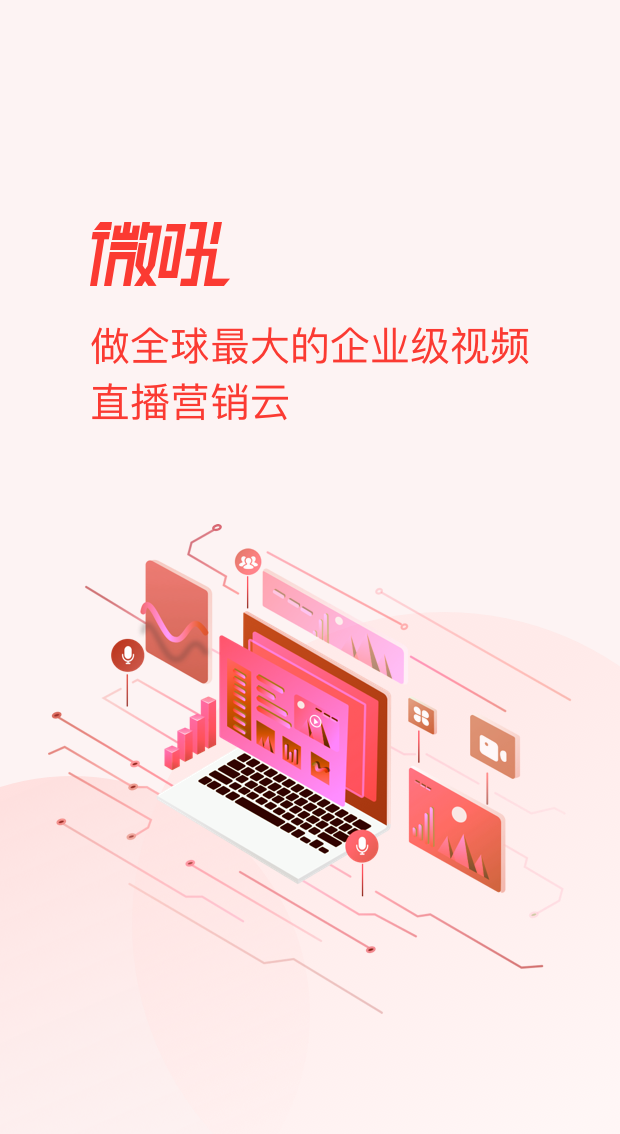
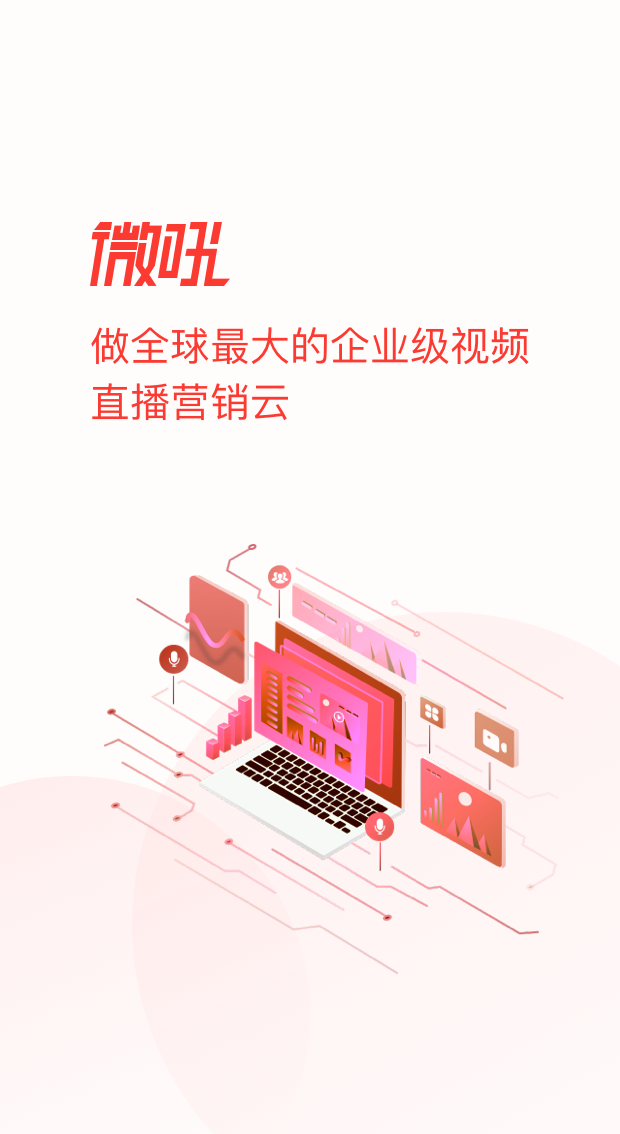
开屏海报

diff --git a/src/views/LiveModule/Brands/posterCard.vue b/src/views/LiveModule/Brands/posterCard.vue
@@ -556,10 +556,13 @@ export default {
         margin: 110px auto 0;
       } */
       img {
-        width: 400px;
+        /* width: 400px;
         height: 242px;
         display: block;
-        margin: 24px auto 0;
+        margin: 24px auto 0; */
+        width: 442px;
+        margin-top: -24px;
+        margin-left: -18px;
       }
       .pc-poster-wrap{
         /* position: absolute;
@@ -574,13 +577,20 @@ export default {
         background: rgba(0, 0, 0, 0.4);
         width: 106px;
         height: 195px; */
-        position: absolute;
+        /* position: absolute;
         top: 15px;
         right: 0;
         background: rgba(0, 0, 0, 0.4);
         width: 106px;
         height: 227px;
+        border-bottom-right-radius: 22px; */
+        position: absolute;
+        top: 9px;
+        left: 0;
+        background: rgba(0, 0, 0, 0.4);
         border-bottom-right-radius: 22px;
+        width: 400px;
+        height: 226px;
       }
       .v-poster-preview {
         /* display: inline-block;
@@ -622,10 +632,14 @@ export default {
       .hb_pc {
         .poster-btn {
           position: absolute;
-          right: 6px;
+          right: 34px;
+          top: 19px;
+          width: 40px;
+          height: 16px;
+          /* right: 6px;
           top: 21px;
           width: 28px;
-          height: 12px;
+          height: 12px; */
           background: url('../../../common/images/poster/pc_poster_close@2x.png') no-repeat;
           background-size: 100% 100%;
           &.five {
